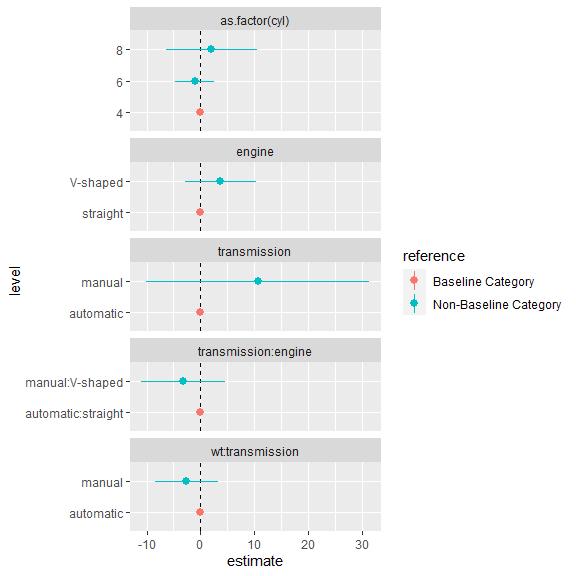
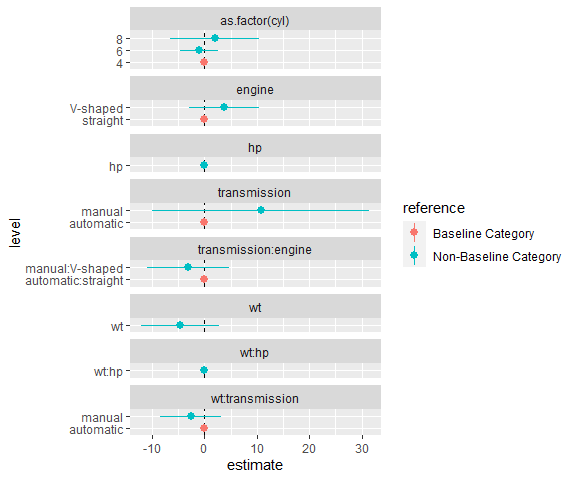
update filter in last plot

diff --git a/readme/README.md b/readme/README.md
@@ -297,11 +297,11 @@ ggplot(data = d1,
 <img src="readme/fig/unnamed-chunk-10-1.png" width="100%" />
 
 The empty levels can be dropped by filtering on the `n_level` column for
-categories with more than zero observations.
+categories with more than zero observations and not `NA` in term column.
 
 ``` r
 ggplot(data = d1 %>% 
-         filter(n_level > 0),
+         filter(n_level > 0 | !is.na(term)),
         mapping = aes(x = level, y = estimate, colour = reference,
                       ymin = conf.low, ymax = conf.high)) +
    facet_col(facets = vars(variable), scales = "free_y", space = "free") +
